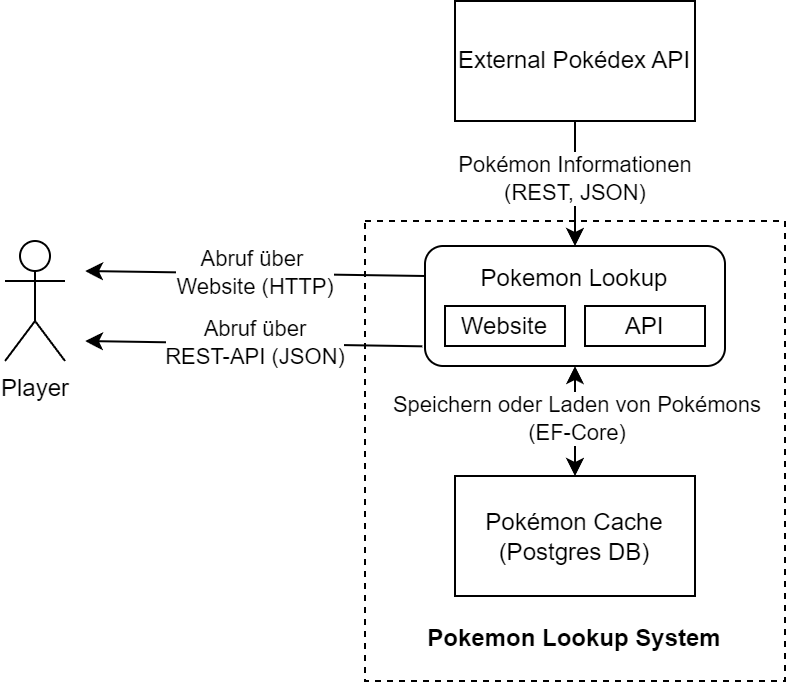
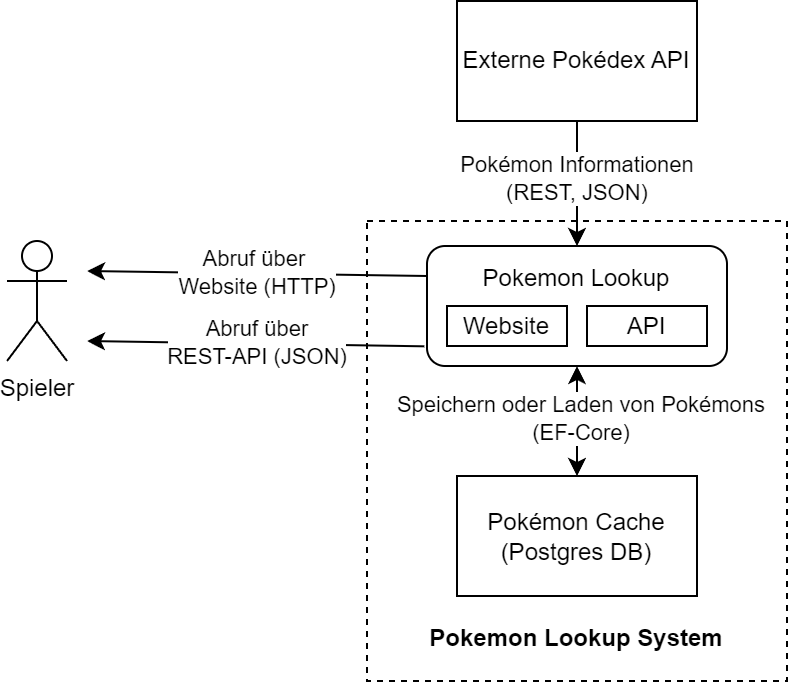
Finished Context chapter in Arc42

diff --git a/readme.md b/readme.md
@@ -15,14 +15,6 @@ Template Version 8.2 DE. (basiert auf AsciiDoc Version), Januar 2023
 Created, maintained and © by Dr. Peter Hruschka, Dr. Gernot Starke and
 contributors. Siehe <https://arc42.org>.
 
-<div class="note">
-
-Diese Version des Templates enthält Hilfen und Erläuterungen. Sie dient
-der Einarbeitung in arc42 sowie dem Verständnis der Konzepte. Für die
-Dokumentation eigener System verwenden Sie besser die *plain* Version.
-
-</div>
-
 # Einführung und Ziele
 
 Bei der hier beschriebenen Software handelt es sich um eine ASP.NET Web-App, mit der Informationen zu beliebigen Pokémons abgerufen werden können. Die App wird von einer Gruppe an Pokémon-Spielern eingesetzt, diese besteht aus 30 Leuten. Die Spieler erwarten sich durch die App, ergänzend zum Spiel Informationen zu Pokémons einsehen zu können.
@@ -73,84 +65,28 @@ Die folgenden Anforderungen wurden mündlich im Rahmen der Vorlesung "Software Q
 
 # Kontextabgrenzung
 
-<div class="formalpara-title">
-
-**Inhalt**
-
-</div>
-
-Die Kontextabgrenzung grenzt das System gegen alle Kommunikationspartner
-(Nachbarsysteme und Benutzerrollen) ab. Sie legt damit die externen
-Schnittstellen fest und zeigt damit auch die Verantwortlichkeit (scope)
-Ihres Systems: Welche Verantwortung trägt das System und welche
-Verantwortung übernehmen die Nachbarsysteme?
-
-Differenzieren Sie fachlichen (Ein- und Ausgaben) und technischen
-Kontext (Kanäle, Protokolle, Hardware), falls nötig.
-
-<div class="formalpara-title">
-
-**Motivation**
-
-</div>
-
-Die fachlichen und technischen Schnittstellen zur Kommunikation gehören
-zu den kritischsten Aspekten eines Systems. Stellen Sie sicher, dass Sie
-diese komplett verstanden haben.
-
-<div class="formalpara-title">
-
-**Form**
-
-</div>
-
-Verschiedene Optionen:
-
--   Diverse Kontextdiagramme
-
--   Listen von Kommunikationsbeziehungen mit deren Schnittstellen
-
-Siehe [Kontextabgrenzung](https://docs.arc42.org/section-3/) in der
-online-Dokumentation (auf Englisch!).
-
 ## Fachlicher Kontext
 
-<div class="formalpara-title">
+![](images/KontextFachlich.png)
 
-**Inhalt**
+Übersicht, welche Daten über welche Schnittstelle kommuniziert werden:
 
-</div>
+| Sender              | Empfänger      | Daten                                                                                                                                                                                                                                                                                                      |
+| ------------------- | -------------- | ---------------------------------------------------------------------------------------------------------------------------------------------------------------------------------------------------------------------------------------------------------------------------------------------------------- |
+| Pokémon Lookup      | Spieler        | Gefilterte Pokémon Eigenschaften. Im Rahmen dieser App sind nur die Informationen "Pokémon ID", "Name", "Weight" und "Height" relevant. Andere Daten werden nicht gespeichert.<br>Der Umfang und die Namen der Eigenschaften werden durch die App festgelegt und bleiben gleich, wenn sich die API ändert. |
+| Externe Pokédex API | Pokémon Lookup | Alle in der Pokédex API verfügbaren Pokémon Informationen.<br>Der Umfang und die Namen der Eigenschaften werden durch die API vorgegeben, die App hat keinen Einfluss darauf. Um die Daten in der App nutzen zu können, müssen sie erst in "gefilterte Daten" umgewandelt werden.                          |
+| Pokémon Lookup      | Pokémon Cache  | gefilterte Pokémon Eigenschaften.                                                                                                                                                                                                                                                                          |
 
-Festlegung **aller** Kommunikationsbeziehungen (Nutzer, IT-Systeme, …)
-mit Erklärung der fachlichen Ein- und Ausgabedaten oder Schnittstellen.
-Zusätzlich (bei Bedarf) fachliche Datenformate oder Protokolle der
-Kommunikation mit den Nachbarsystemen.
+Die Website und API des Pokémon Lookup Systems können folgendermaßen aufgerufen werden:
 
-<div class="formalpara-title">
+| Art     | Aufruf                                                                                                                                 |
+| ------- | -------------------------------------------------------------------------------------------------------------------------------------- |
+| Website | 1. Navigation auf Startseite der App<br>2. Eingabe eines Suchbegriffs<br>3. Klick auf Suche<br>4. Details zum Pokémon werden angezeigt |
+| Website | Pokemon Informationen können direkt unter `/Pokemon?name={Dein Suchbegriff}` abgerufen werden.                                         |
+| API     | Pokemon Informationen können direkt unter `/api/v1/pokemon/{Dein Suchbegriff}` abgerufen werden.                                       |
 
-**Motivation**
 
-</div>
-
-Alle Beteiligten müssen verstehen, welche fachlichen Informationen mit
-der Umwelt ausgetauscht werden.
-
-<div class="formalpara-title">
-
-**Form**
-
-</div>
-
-Alle Diagrammarten, die das System als Blackbox darstellen und die
-fachlichen Schnittstellen zu den Nachbarsystemen beschreiben.
-
-Alternativ oder ergänzend können Sie eine Tabelle verwenden. Der Titel
-gibt den Namen Ihres Systems wieder; die drei Spalten sind:
-Kommunikationsbeziehung, Eingabe, Ausgabe.
-
-**\<Diagramm und/oder Tabelle>**
-
-**\<optional: Erläuterung der externen fachlichen Schnittstellen>**
+Wie die jeweiligen Daten-Umfänge implementiert sind, wird im Folgenden beschrieben.
 
 ## Technischer Kontext
 
